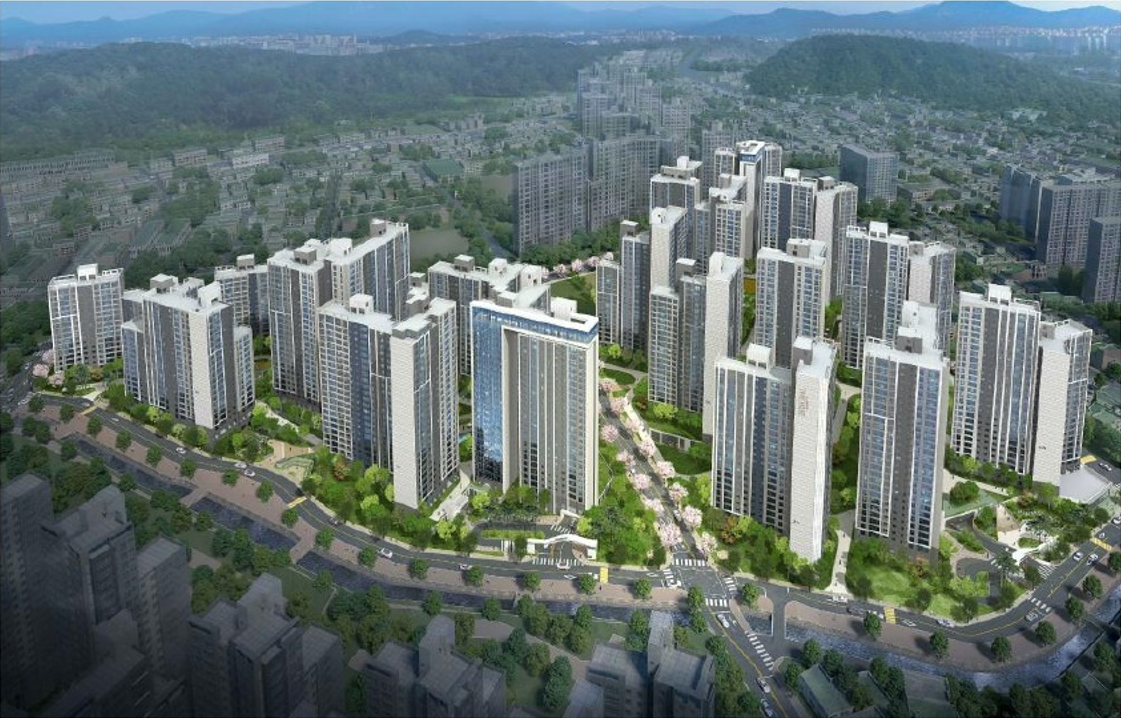
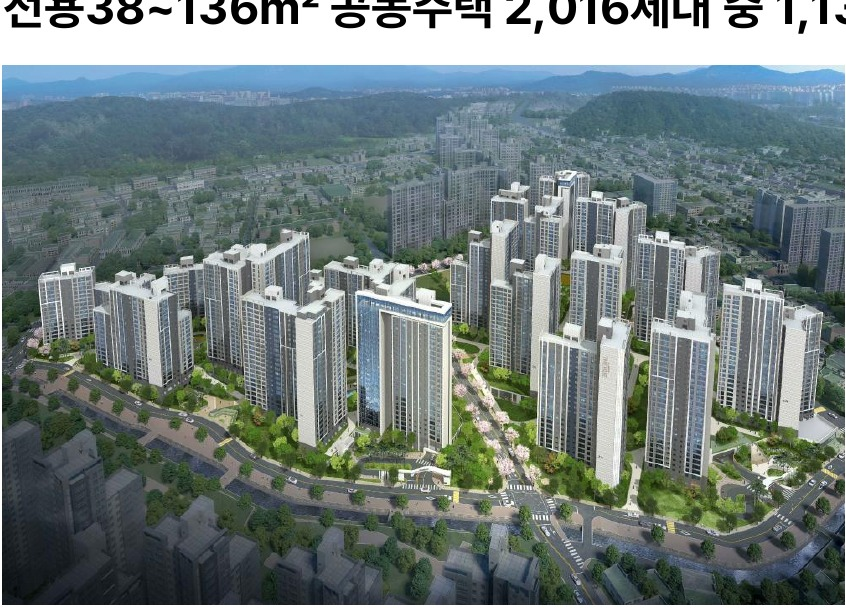
Add files via upload

diff --git a/index.html b/index.html
@@ -8,7 +8,7 @@
   <link rel="stylesheet" href="css/style.css">
 </head>
 <body>
-<div id="mc2" data-phone="010-8132-0039">
+<div id="mc2" data-phone="1555-4940">
 
   <!-- =========================================================
        01. HERO
@@ -18,7 +18,6 @@
     <div class="hero-shade"></div>
 
     <div class="wrap hero-in">
-      <div class="badge">📍 창원 · 마산회원구 회원2동</div>
 
       <h1>
         창원 한신더휴<br>
@@ -31,8 +30,7 @@
       </p>
 
       <div class="ctas">
-        <a class="call" href="tel:010-8132-0039">📞 전화상담&nbsp; 윤세라 팀장 · 010-8132-0039</a>
-        <a class="sms" href="sms:010-8132-0039">💬 문자상담</a>
+        <a class="call hero-call" href="tel:1555-4940">📞 모델하우스 방문예약 상담 1555-4940</a>
       </div>
     </div>
     
@@ -60,24 +58,66 @@
         <div class="site-left">         
           <img class="site-main" src="images/site-plan.png" alt="단지배치도">
 
-          <div class="site-photos">
-            <figure>
-              <img src="images/site-a.jpg" alt="대단지 조감도">
-              <figcaption>대단지 조감도</figcaption>
-            </figure>
-            <figure>
-              <img src="images/site-b.jpg" alt="임항선 그린웨이">
-              <figcaption>임항선 그린웨이</figcaption>
-            </figure>
-            <figure>
-              <img src="images/site-c.jpg" alt="공원형 주거환경">
-              <figcaption>공원형 주거환경</figcaption>
-            </figure>
-          </div>
         </div>
 
         <div class="site-overview-wrap">
           <img class="site-overview" src="images/overview.png" alt="사업개요">
+        </div>
+      </div>
+    </div>
+  </section>
+
+  <!-- =========================================================
+       07. UNIT PLAN
+       ※ 각 변수 슬롯에 같은 이름의 평면 이미지를 등록합니다.
+       ========================================================= -->
+  <section class="sec">
+    <div class="wrap">
+      <div class="k">UNIT PLAN</div>
+      <h2>우리 가족에게 맞는<br><em>공간을 찾아보세요</em></h2>
+      <p class="lead">라이프스타일과 가족 구성에 맞춰 다양한 주택형의 공간 설계를 확인해보세요.</p>
+
+      <!-- JS 없이 동작하는 UNIT PLAN : radio + label 방식 -->
+      <div class="unit-switch">
+        <input type="radio" name="mc-unit" id="mc-unit-38" checked>
+        <input type="radio" name="mc-unit" id="mc-unit-46">
+        <input type="radio" name="mc-unit" id="mc-unit-59">
+        <input type="radio" name="mc-unit" id="mc-unit-74a">
+        <input type="radio" name="mc-unit" id="mc-unit-74b">
+        <input type="radio" name="mc-unit" id="mc-unit-84a">
+        <input type="radio" name="mc-unit" id="mc-unit-84b">
+        <input type="radio" name="mc-unit" id="mc-unit-84c">
+        <input type="radio" name="mc-unit" id="mc-unit-101a">
+        <input type="radio" name="mc-unit" id="mc-unit-101b">
+        <input type="radio" name="mc-unit" id="mc-unit-136a">
+        <input type="radio" name="mc-unit" id="mc-unit-136b">
+        <div class="tabs" role="tablist" aria-label="주택형 선택">
+          <label for="mc-unit-38">38</label>
+          <label for="mc-unit-46">46</label>
+          <label for="mc-unit-59">59</label>
+          <label for="mc-unit-74a">74A</label>
+          <label for="mc-unit-74b">74B</label>
+          <label for="mc-unit-84a">84A</label>
+          <label for="mc-unit-84b">84B</label>
+          <label for="mc-unit-84c">84C</label>
+          <label for="mc-unit-101a">101A</label>
+          <label for="mc-unit-101b">101B</label>
+          <label for="mc-unit-136a">136A</label>
+          <label for="mc-unit-136b">136B</label>
+        </div>
+        <div class="unit">
+          <img class="unit-38" src="images/unit-38.jpg" alt="38㎡ 주택형 평면도">
+          <img class="unit-46" src="images/unit-46.jpg" alt="46㎡ 주택형 평면도">
+          <img class="unit-59" src="images/unit-59.jpg" alt="59㎡ 주택형 평면도">
+          <img class="unit-74a" src="images/unit-74a.jpg" alt="74A㎡ 주택형 평면도">
+          <img class="unit-74b" src="images/unit-74b.jpg" alt="74B㎡ 주택형 평면도">
+          <img class="unit-84a" src="images/unit-84a.jpg" alt="84A㎡ 주택형 평면도">
+          <img class="unit-84b" src="images/unit-84b.jpg" alt="84B㎡ 주택형 평면도">
+          <img class="unit-84c" src="images/unit-84c.jpg" alt="84C㎡ 주택형 평면도">
+          <img class="unit-101a" src="images/unit-101a.jpg" alt="101A㎡ 주택형 평면도">
+          <img class="unit-101b" src="images/unit-101b.jpg" alt="101B㎡ 주택형 평면도">
+          <img class="unit-136a" src="images/unit-136a.jpg" alt="136A㎡ 주택형 평면도">
+          <img class="unit-136b" src="images/unit-136b.jpg" alt="136B㎡ 주택형 평면도">
         </div>
       </div>
     </div>
@@ -179,85 +219,6 @@
 
       <img class="loc-main" src="images/location.jpg" alt="입지종합도">
 
-      <div class="loc-cards">
-        <article>
-          <img src="images/school1.jpg" alt="회원초등학교">
-          <b>회원초 도보 1분</b>
-          <span>아이의 매일 등하교가 가까워지는 교육환경</span>
-        </article>
-
-        <article>
-          <img src="images/school2.jpg" alt="마산동중학교">
-          <b>마산동중 도보 3분</b>
-          <span>초·중학교를 가까이 누리는 교육환경</span>
-        </article>
-
-        <article class="textcard">
-          <b>생활과 자연을 함께</b>
-          <span>생활인프라와 자연환경을 함께 누리는 입지</span>
-        </article>
-
-        <article class="textcard">
-          <b>KTX · SRT</b>
-          <span>마산역과 주요 교통망을 통한 광역교통 접근성</span>
-        </article>
-      </div>
-    </div>
-  </section>
-
-  <!-- =========================================================
-       07. UNIT PLAN
-       ※ 각 변수 슬롯에 같은 이름의 평면 이미지를 등록합니다.
-       ========================================================= -->
-  <section class="sec">
-    <div class="wrap">
-      <div class="k">UNIT PLAN</div>
-      <h2>우리 가족에게 맞는<br><em>공간을 찾아보세요</em></h2>
-      <p class="lead">라이프스타일과 가족 구성에 맞춰 다양한 주택형의 공간 설계를 확인해보세요.</p>
-
-      <!-- JS 없이 동작하는 UNIT PLAN : radio + label 방식 -->
-      <div class="unit-switch">
-        <input type="radio" name="mc-unit" id="mc-unit-38" checked>
-        <input type="radio" name="mc-unit" id="mc-unit-46">
-        <input type="radio" name="mc-unit" id="mc-unit-59">
-        <input type="radio" name="mc-unit" id="mc-unit-74a">
-        <input type="radio" name="mc-unit" id="mc-unit-74b">
-        <input type="radio" name="mc-unit" id="mc-unit-84a">
-        <input type="radio" name="mc-unit" id="mc-unit-84b">
-        <input type="radio" name="mc-unit" id="mc-unit-84c">
-        <input type="radio" name="mc-unit" id="mc-unit-101a">
-        <input type="radio" name="mc-unit" id="mc-unit-101b">
-        <input type="radio" name="mc-unit" id="mc-unit-136a">
-        <input type="radio" name="mc-unit" id="mc-unit-136b">
-        <div class="tabs" role="tablist" aria-label="주택형 선택">
-          <label for="mc-unit-38">38</label>
-          <label for="mc-unit-46">46</label>
-          <label for="mc-unit-59">59</label>
-          <label for="mc-unit-74a">74A</label>
-          <label for="mc-unit-74b">74B</label>
-          <label for="mc-unit-84a">84A</label>
-          <label for="mc-unit-84b">84B</label>
-          <label for="mc-unit-84c">84C</label>
-          <label for="mc-unit-101a">101A</label>
-          <label for="mc-unit-101b">101B</label>
-          <label for="mc-unit-136a">136A</label>
-          <label for="mc-unit-136b">136B</label>
-        </div>
-        <div class="unit">
-          <img class="unit-38" src="images/unit-38.jpg" alt="38㎡ 주택형 평면도">
-          <img class="unit-46" src="images/unit-46.jpg" alt="46㎡ 주택형 평면도">
-          <img class="unit-59" src="images/unit-59.jpg" alt="59㎡ 주택형 평면도">
-          <img class="unit-74a" src="images/unit-74a.jpg" alt="74A㎡ 주택형 평면도">
-          <img class="unit-74b" src="images/unit-74b.jpg" alt="74B㎡ 주택형 평면도">
-          <img class="unit-84a" src="images/unit-84a.jpg" alt="84A㎡ 주택형 평면도">
-          <img class="unit-84b" src="images/unit-84b.jpg" alt="84B㎡ 주택형 평면도">
-          <img class="unit-84c" src="images/unit-84c.jpg" alt="84C㎡ 주택형 평면도">
-          <img class="unit-101a" src="images/unit-101a.jpg" alt="101A㎡ 주택형 평면도">
-          <img class="unit-101b" src="images/unit-101b.jpg" alt="101B㎡ 주택형 평면도">
-          <img class="unit-136a" src="images/unit-136a.jpg" alt="136A㎡ 주택형 평면도">
-          <img class="unit-136b" src="images/unit-136b.jpg" alt="136B㎡ 주택형 평면도">
-        </div>
-      </div>
     </div>
   </section>
 
@@ -270,33 +231,21 @@
       <small>CONSULTATION</small>
       <h2>궁금한 점은<br>담당자에게 바로 문의하세요</h2>
 
-      <p>
-        <b>윤세라 팀장</b> · 010-8132-0039<br>
-        분양조건부터 주택형, 방문상담까지 궁금한 내용을 편하게 문의해 주세요.
-      </p>
-
       <div class="ctas center">
-        <a class="call" href="tel:010-8132-0039">📞 전화상담&nbsp; 윤세라 팀장 · 010-8132-0039</a>
-        <a class="sms" href="sms:010-8132-0039">💬 문자상담</a>
+        <a class="call consult-call" href="tel:1555-4940">📞 모델하우스 방문예약 상담 1555-4940</a>
       </div>
-    </div>
-  </section>
 
-  <!-- =========================================================
-       09. NOTICE
-       ========================================================= -->
-  <section class="notice">
-    <div class="wrap">
-      <p>① 상기 CG 및 이미지는 소비자의 이해를 돕기 위해 제작된 것으로 실제와 다르며 인·허가 과정에서 다소 변경될 수 있으니 견본주택을 방문하시어 직접 확인하시기 바랍니다.</p>
-      <p>② 홈페이지의 제작과정상 오탈자 등 오류가 있을 수 있으므로 계약 시 반드시 확인하시기 바랍니다.</p>
-      <p>③ 상기 설계관련 내용은 향후 인·허가 과정 및 실시공 시 일부 변경될 수 있으니, 계약 시 꼭 확인하시기 바랍니다.</p>
+      <div class="notice notice-in-consult">
+        <p>① 상기 CG 및 이미지는 소비자의 이해를 돕기 위해 제작된 것으로 실제와 다르며 인·허가 과정에서 다소 변경될 수 있으니 견본주택을 방문하시어 직접 확인하시기 바랍니다.</p>
+        <p>② 홈페이지의 제작과정상 오탈자 등 오류가 있을 수 있으므로 계약 시 반드시 확인하시기 바랍니다.</p>
+        <p>③ 상기 설계관련 내용은 향후 인·허가 과정 및 실시공 시 일부 변경될 수 있으니, 계약 시 꼭 확인하시기 바랍니다.</p>
+      </div>
     </div>
   </section>
 
   <!-- 모바일 고정 상담바 -->
   <div class="mobile">
-    <a href="tel:010-8132-0039">📞 윤세라 팀장 전화상담</a>
-    <a href="sms:010-8132-0039">💬 문자상담</a>
+    <a href="tel:1555-4940">📞 모델하우스 방문예약 상담 1555-4940</a>
   </div>
 
 </div>

diff --git a/css/style.css b/css/style.css
@@ -434,3 +434,84 @@
    ============================================================ */
 html, body { margin: 0; padding: 0; }
 body { background: #fff; }
+
+/* ============================================================
+   11. FINAL REVISION 2026-09-13
+   ============================================================ */
+#mc2 .hero-call,
+#mc2 .consult-call {
+  font-size: 1.5em;
+}
+
+/* MEGA LIVING: 보조사진 삭제 후 메인 배치도 중심 */
+#mc2 .site-left { min-width: 0; }
+
+/* 모바일 최종 조정 */
+@media (max-width: 800px) {
+  #mc2 .hero .ctas { grid-template-columns: 1fr; }
+  #mc2 .hero .ctas .call { grid-column: auto; }
+  #mc2 .hero-call { font-size: 18px; }
+
+  /* COMMUNITY: 사진만 표시, 섹션 바깥 흰 여백 방지 */
+  #mc2 .dark { overflow: hidden; }
+  #mc2 .community article > div { display: none; }
+  #mc2 .community { margin-bottom: 0; }
+
+  /* SPECIAL PLAN: 모바일만 설명 위 / 사진 아래 */
+  #mc2 .special article {
+    border: 1px solid #d9e1e8;
+    border-radius: 18px;
+    overflow: hidden;
+  }
+  #mc2 .special article > div { order: 1; }
+  #mc2 .special article > img { order: 2; }
+
+  /* CONSULTATION / NOTICE: 고정 상담바와 고지문 겹침 방지 */
+  #mc2 .consult { padding-bottom: 54px; }
+  #mc2 .consult-call { font-size: 18px; }
+  #mc2 .notice { padding: 24px 0 88px; }
+  #mc2 .mobile a { width: 100%; font-size: 16px; }
+}
+
+
+/* ============================================================
+   12. FINAL REVISION V2 - NOTICE / MOBILE SPECIAL
+   ============================================================ */
+
+/* 법적 고지: CONSULTATION 내부로 올려 배치 */
+#mc2 .notice-in-consult {
+  background: transparent;
+  padding: 34px 0 0;
+  margin-top: 24px;
+  border-top: 1px solid rgba(255,255,255,.22);
+  text-align: left;
+}
+#mc2 .notice-in-consult p {
+  color: rgba(255,255,255,.72);
+  font-size: 11px;
+  line-height: 1.6;
+  margin: 5px 0;
+}
+
+@media (max-width: 800px) {
+  /* SPECIAL PLAN: 모바일에서 반드시 설명 → 사진 순서 */
+  #mc2 .special article {
+    display: flex;
+    flex-direction: column;
+  }
+  #mc2 .special article > div { order: 1; }
+  #mc2 .special article > img { order: 2; }
+
+  /* 법적 고지문을 상담버튼 바로 아래에 노출하고 고정바에 가리지 않게 충분한 여백 확보 */
+  #mc2 .consult {
+    padding-bottom: 92px;
+  }
+  #mc2 .notice-in-consult {
+    padding-top: 24px;
+    margin-top: 22px;
+  }
+  #mc2 .notice-in-consult p {
+    font-size: 10px;
+    line-height: 1.55;
+  }
+}
